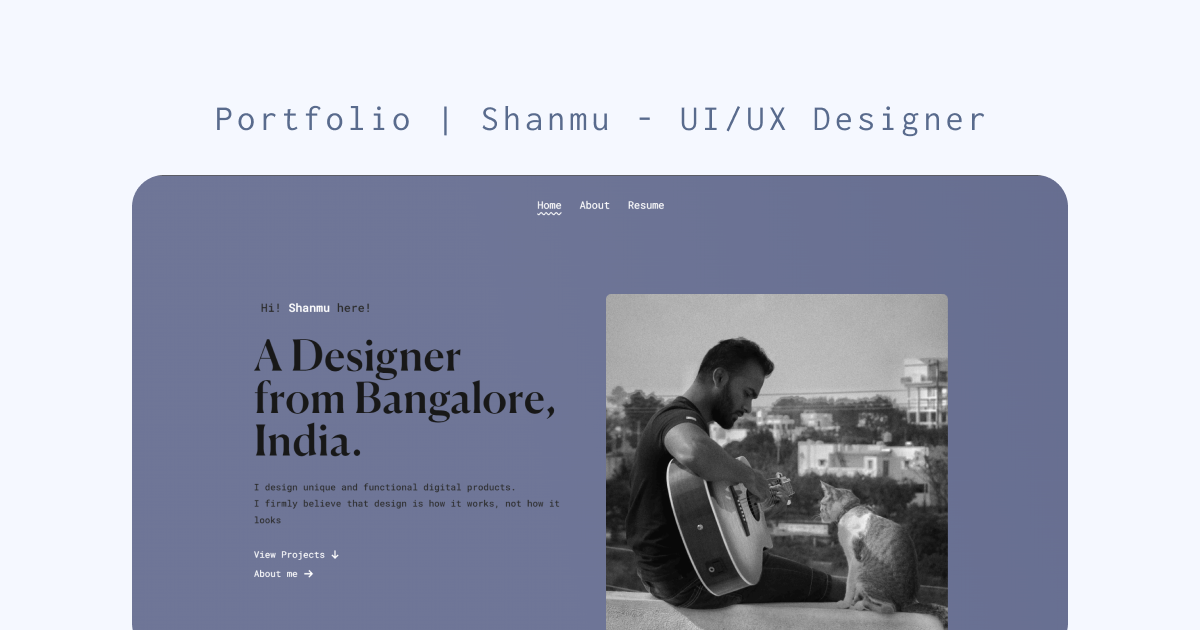
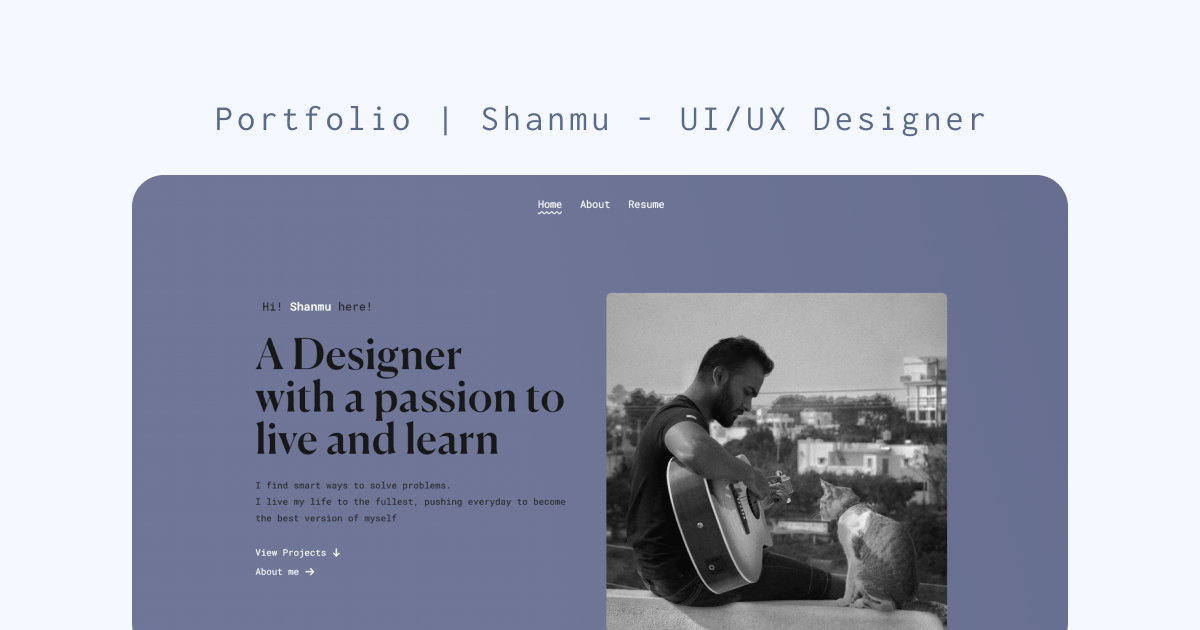
Updated H1 home page

diff --git a/index.html b/index.html
@@ -177,11 +177,11 @@
             </p>
             <h1>
               A Designer<br />
-              from Bangalore, India.
+              with a passion to live and learn
             </h1>
             <p style="font-weight: 500">
-              I design unique and functional digital products.<br />
-              I firmly believe that design is how it works, not how it looks
+              I find smart ways to solve problems.<br />
+              I live my life to the fullest, pushing everyday to become the best version of myself
             </p>
             <p>
               <a href="#work" class="view-work">View Projects</a> <br />
